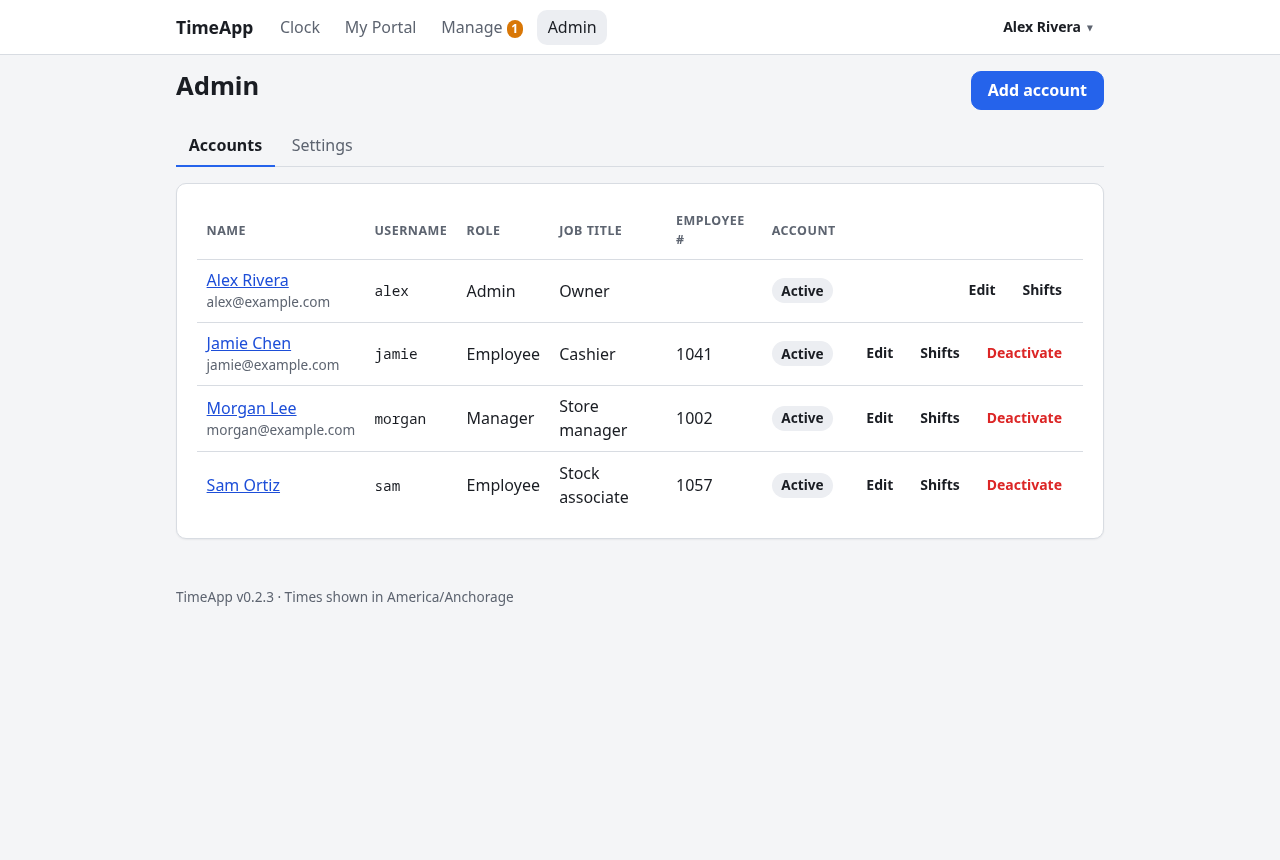
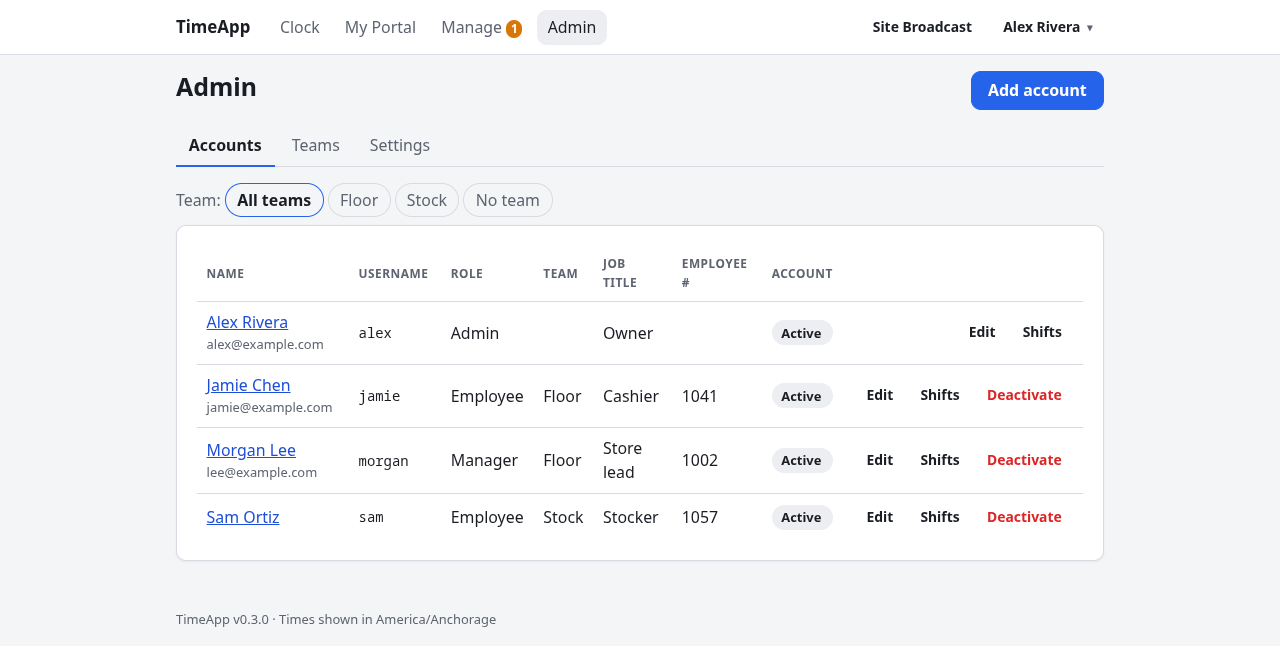
updated admin docs with boradcast feature

diff --git a/guide/ADMIN.md b/guide/ADMIN.md
@@ -10,6 +10,7 @@ Admins can do everything managers can, for **every** account, and also manage ac
   - [Change a role or deactivate someone](#change-a-role-or-deactivate-someone)
   - [Reset a password](#reset-a-password)
 - [Teams](#teams)
+- [Site Broadcast](#site-broadcast)
 - [Settings](#settings)
 - [Locked out?](#locked-out)
 
@@ -25,6 +26,7 @@ Compared with a manager, an admin can:
 - **Delete anyone's shift notes.** Everyone else can only delete their own.
 - **Add accounts**, edit them, change roles, deactivate people and reset passwords.
 - **Set up teams**, which limit which employees a manager manages.
+- **Send a site broadcast**, a message pinned to every page for everyone.
 - **Change Admin → Settings.**
 
 On a person's page in **Manage**, admins also get an **Edit account** button, and the **Manage** page has **Add account**.
@@ -101,6 +103,25 @@ Teams decide which employees a manager manages:
   - **Remove** someone from the team.
   - **Rename team**.
   - **Delete team**: its members are left on no team (unless they're on another). No shifts or other history are affected.
+
+---
+
+## Site Broadcast
+![A broadcast in place](images/admin-broadcast.png)
+
+Use this to tell everyone something right now — "clock out by 4, the server goes down at 5."
+
+**Site Broadcast** sits in the top bar, just left of your name. Only admins see it. Click it, type your message and click **OK**. The message appears as a bar at the bottom of the page:
+
+- **Everyone sees it**, on every page, including people who aren't logged in yet — it shows on the login page too.
+- **People already using the app** get it within about 15 seconds, without reloading.
+- Keep it **under 200 characters**. Cancelling the box, or leaving it empty, sends nothing.
+
+There's only ever one broadcast. Sending a new one replaces the old one.
+
+Once a broadcast is up, the button reads **Dismiss Broadcast**. Click it to take the message down, again within about 15 seconds for everyone. Any admin can dismiss any broadcast, not just the one who sent it.
+
+**Stopping or restarting the server also clears it** (`npm stop`, `npm run restart`). The message is only held in memory, never saved, so it never outlives the server and there's no history of past broadcasts.
 
 ---
 
